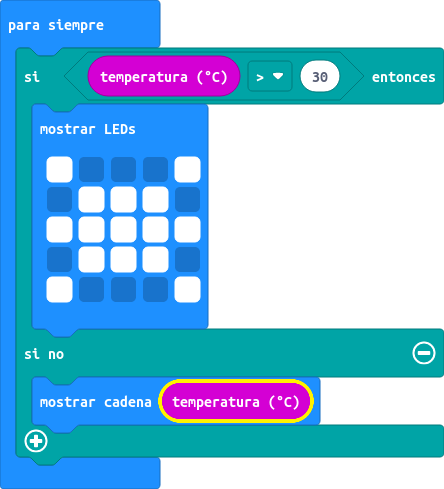
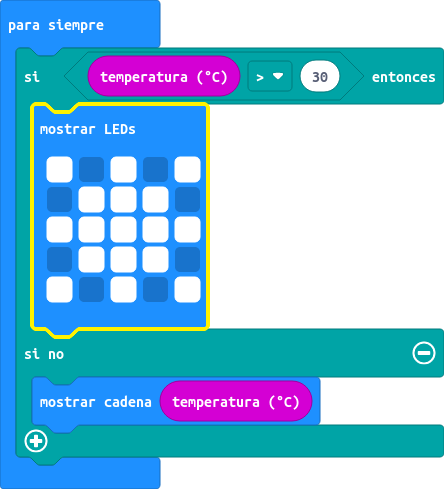
Actualizar main.blocks, main.ts

diff --git a/main.ts b/main.ts
@@ -1,11 +1,11 @@
 basic.forever(function () {
     if (input.temperature() > 30) {
         basic.showLeds(`
-            # . . . #
+            # . # . #
             . # # # .
             # # # # #
             . # # # .
-            # . . . #
+            # . # . #
             `)
     } else {
         basic.showString("" + (input.temperature()))
